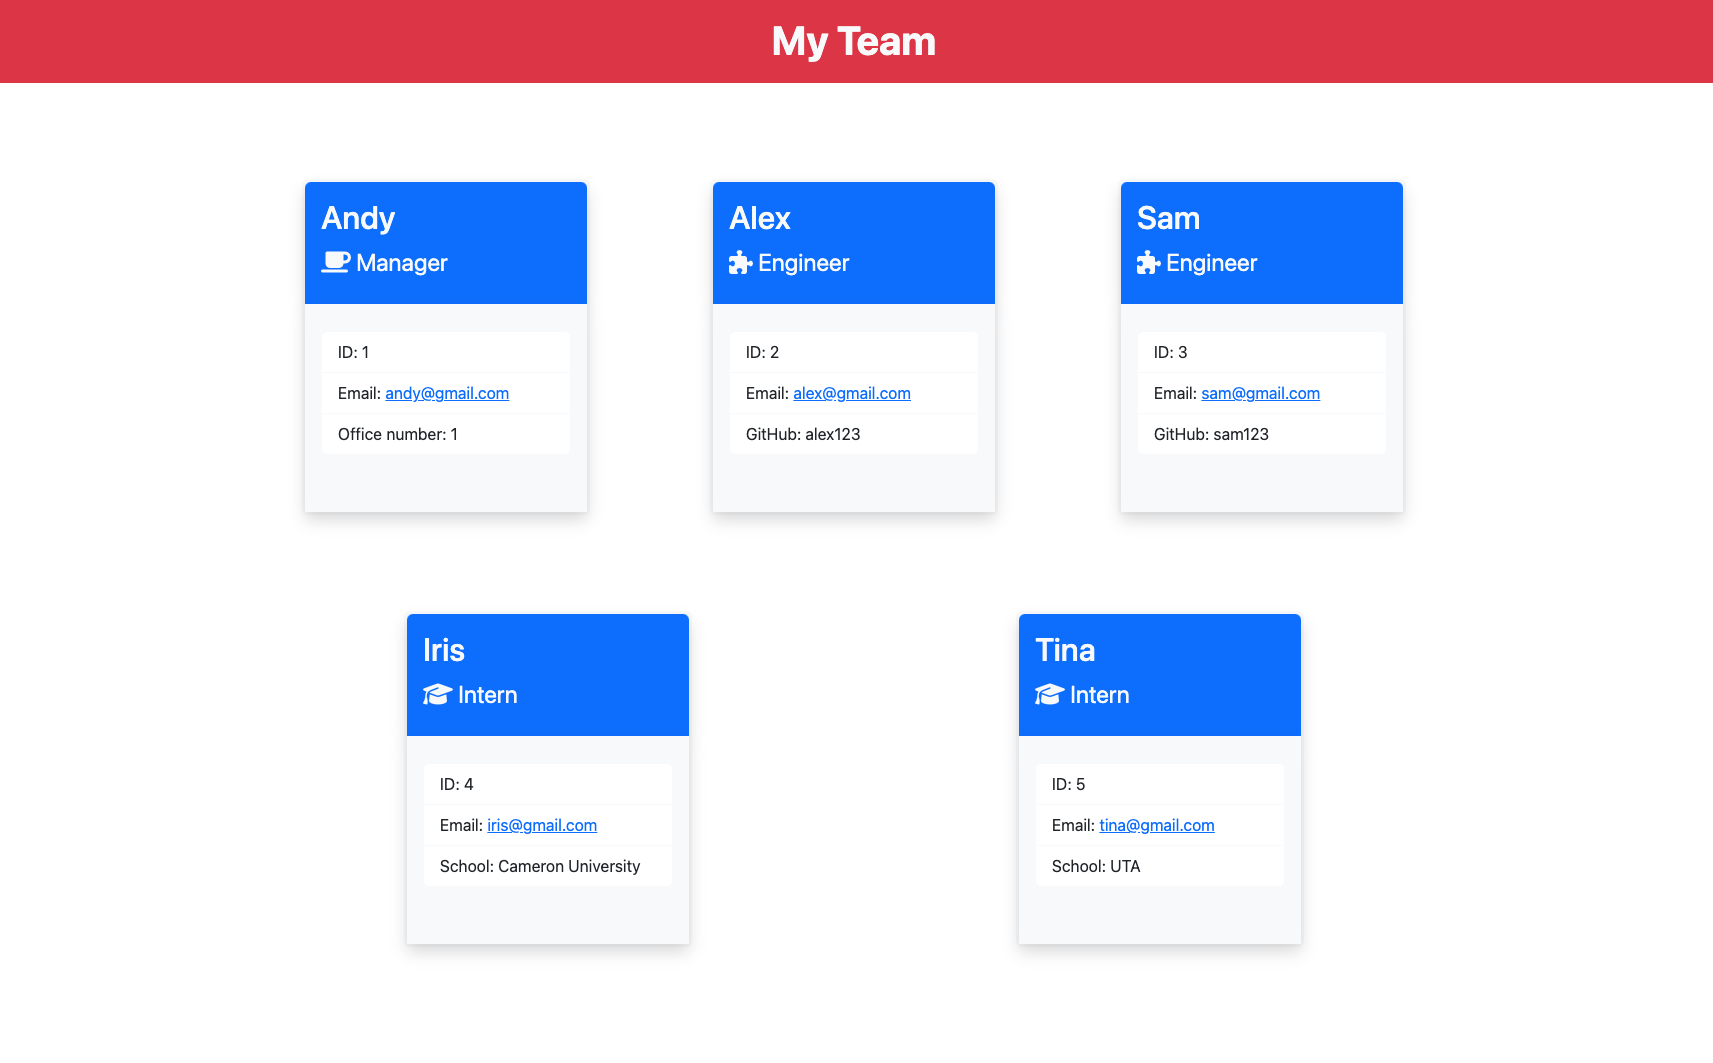
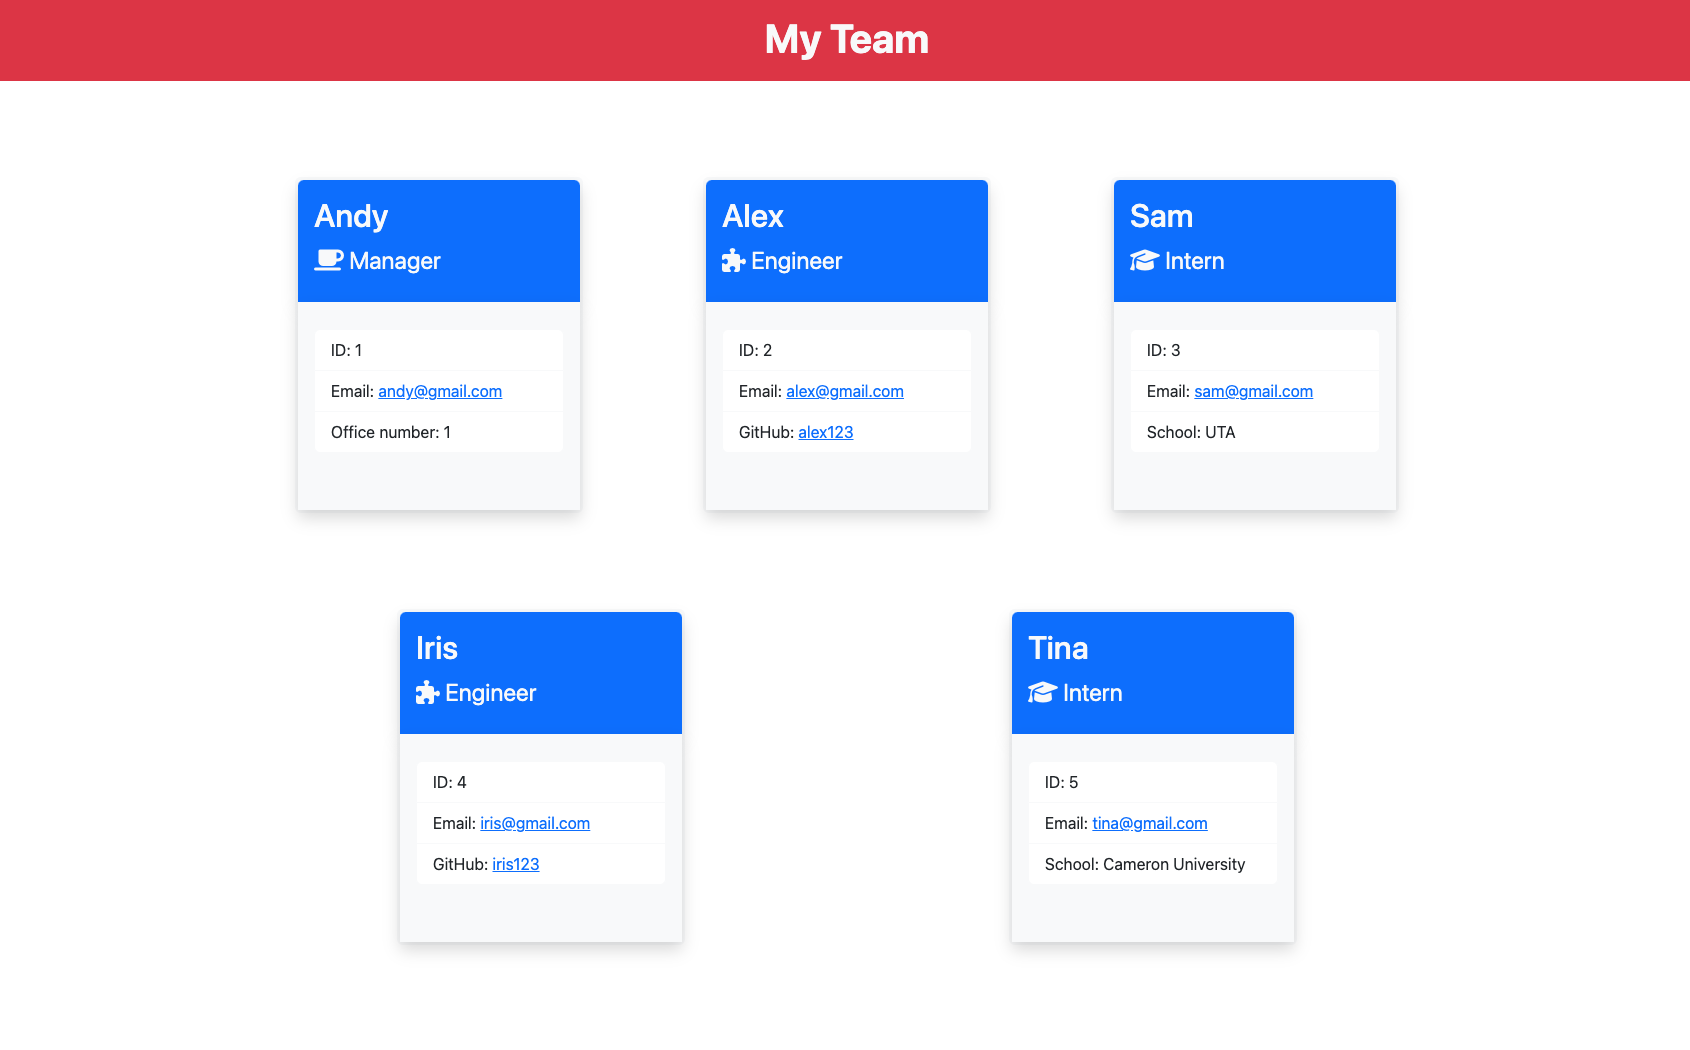
fixed the github to hyper link

diff --git a/src/generateHTML.js b/src/generateHTML.js
@@ -50,7 +50,7 @@ const generateEngineer = function (engineer) {
       <li class="list-group-item border-light">
         Email: <a href="${engineer.email}">${engineer.email}</a>
       </li>
-      <li class="list-group-item border-light rounded-bottom">GitHub: ${engineer.github}
+      <li class="list-group-item border-light rounded-bottom">GitHub: <a href="https://www.github.com/${engineer.github}">${engineer.github}</a>
       </li>
     </ul>
   </div>
